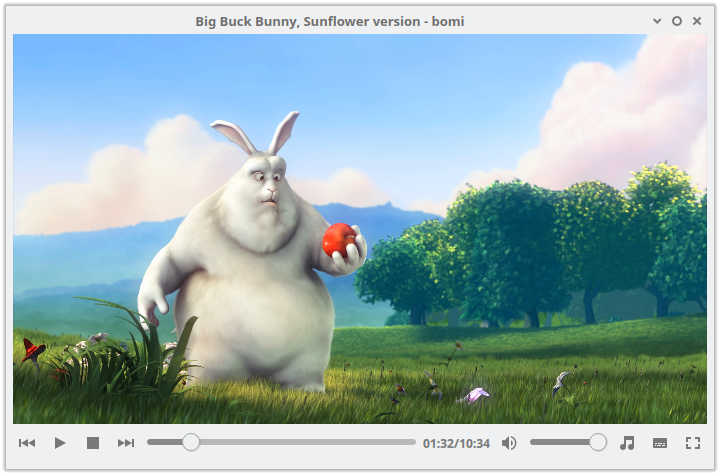
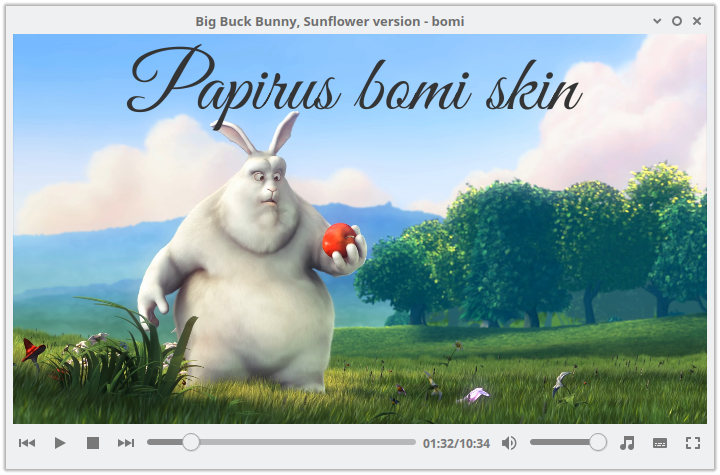
update preview

Changed region(s): [[0.1528, 0.0884, 0.6417, 0.2653], [0.6417, 0.1179, 0.825, 0.2358], [0.275, 0.2653, 0.3056, 0.2947]]

diff --git a/README.md b/README.md
@@ -1,10 +1,15 @@
-# bomi-skin-papirus
-Skin for bomi player.
-
-![Screenshot](preview.png)
+<p align="center">
+  <img src="https://raw.githubusercontent.com/PapirusDevelopmentTeam/papirus-bomi-skin/master/preview.png" alt="preview"/>
+</p>
 
 # Install
-Archlinux (AUR):
+**Archlinux (AUR)**:
 ```
 yaourt -S papirus-bomi-skin
+```
+**Kubuntu 14.04/16.04**:
+```
+sudo add-apt-repository ppa:varlesh-l/papirus-pack
+sudo apt-get update
+sudo apt-get install bomi-skin-papirus
 ```
